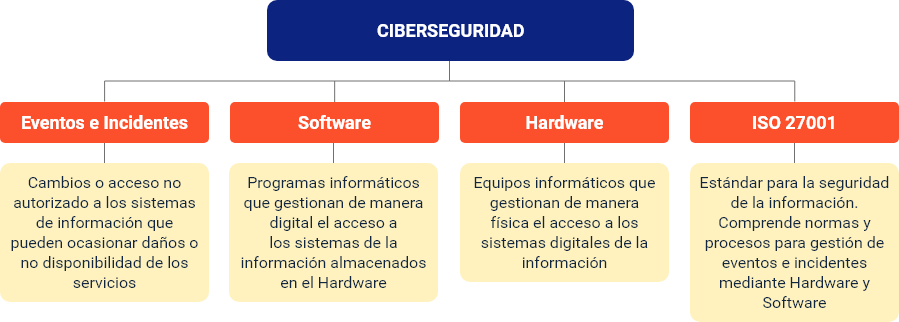
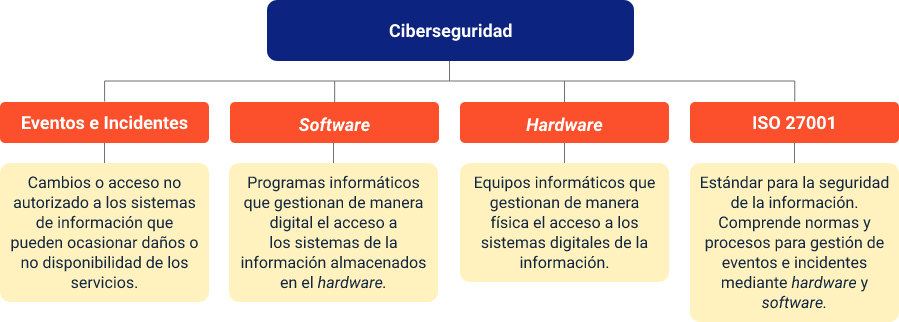
Ajustes

diff --git a/src/views/Tema1.vue b/src/views/Tema1.vue
@@ -163,7 +163,7 @@
         figure
           img(src='@/assets/curso/temas/tema1/img13.svg', alt='Texto que describa la imagen').img10-tema1
       .col-10.col-lg-7.mt-5
-        p Teniendo en cuenta la importancia de una arquitectura de almacenamiento de datos, hay una  normativa legal en la empresas que deben establecer unas políticas de usuario que permitan el desarrollo de un Sistema de Gestión de Seguridad de la Información, que debe iniciar con la documentación de procesos y conociendo cómo opera la organización, también revisar el manual de funciones de cada empleado cómo paso fundamental para aplicar el ciclo Planear-Hacer-Verificar-Actuar PHVA, y en la acción, para planear es necesario conocer los procesos digitales críticos en la organización, que luego detalladamente se deben analizar para implementar controles que puedan proteger los procesos implementados ante amenazas cibernéticas.
+        p Teniendo en cuenta la importancia de una arquitectura de almacenamiento de datos, hay una  normativa legal en la empresas que deben establecer unas políticas de usuario que permitan el desarrollo de un Sistema de Gestión de Seguridad de la Información, que debe iniciar con la documentación de procesos y conociendo cómo opera la organización, también revisar el manual de funciones de cada empleado como paso fundamental para aplicar el ciclo Planear-Hacer-Verificar-Actuar PHVA, y en la acción, para planear es necesario conocer los procesos digitales críticos en la organización, que luego detalladamente se deben analizar para implementar controles que puedan proteger los procesos implementados ante amenazas cibernéticas.
         p El ciclo PHVA, cobra gran importancia en los procesos de ciberseguridad y entender cada una de las fases, por ejemplo en planear es posible detectar las amenazas internas, que parecieran ser externas porque vienen del internet, y que en realidad no son a causa de un ser humano con intenciones maliciosas, sino de los mismos empleados que al no estar capacitados descargan programas que vienen con virus tipo troyanos o sin intención maliciosa que puede mover un directorio o archivo, también se deben revisar las políticas que tengan contempladas el departamento de Tecnologías de la Información (TI) de la organización.
 
     p.mt-5 La importancia de bajar las amenazas es indispensable, así como existen algunas recomendaciones:
@@ -241,7 +241,7 @@
               figure
                 img(src="@/assets/curso/temas/tema1/icono8.svg", alt="").icono
             .col-lg-10
-              p Luego de realizar el inventario de activos, se procede a identificar cada una de las amenazas a los que estos están expuestos. Para esto se pueden aplicar metodológicas establecidas como Magerit, octave, cobit, etc.
+              p Luego de realizar el inventario de activos, se procede a identificar cada una de las amenazas a los que estos están expuestos. Para esto se pueden aplicar metodologías establecidas como Magerit, octave, cobit, etc.
 
           .row.justify-content-center.p-3(numero="3" titulo="Establecer controles de seguridad")
             .col-6.col-lg-2.mb-4
@@ -278,7 +278,7 @@
                   figure
                     img(src='@/assets/curso/temas/tema1/img15.png', alt='Texto que describa la imagen')
                 .col-lg-8
-                  p Encargado de la seguridad del #[i hardware] y #[i software] de toda la red, elementos como #[i routers], #[i switches], #[i firewalls, IDS, IPS, DNS] etc.
+                  p Encargado de la seguridad del #[i hardware] y #[i software] de toda la red, elementos como #[i routers], #[i switches], #[i firewalls, IDS, IPS, DNS], etc.
 
           .row(titulo="Jefe de sistemas -CIO")
             .col-12
@@ -500,7 +500,7 @@
           .tarjeta-flip__contenedor
             .tarjeta-flip__img.img-288(:style="{'background-image': `url(${require('@/assets/curso/temas/tema1/img33.png')})`}")
             .tarjeta-flip__contenido.px-4.p-2.py-xl-4
-              p Los anexos se consideran separadamente de la parte final, porque, aunque en muchas ocasiones no se requiere, en otras, forman parte esencial y complemento de información de algunos informes. Se usan para presentar material que complementa el texto, éstos pueden ser: tablas, imágenes, material especial, bibliografía, descripción de equipos, software, etc.
+              p Los anexos se consideran separadamente de la parte final, porque, aunque en muchas ocasiones no se requiere, en otras, forman parte esencial y complemento de información de algunos informes. Se usan para presentar material que complementa el texto, éstos pueden ser: tablas, imágenes, material especial, bibliografía, descripción de equipos, #[em software], etc.
       .col-sm-6.col-xl-3.mb-4.mb-xl-0
         .tarjeta.tarjeta-flip(@mouseover="indicadorTarjetaFlip = false")
           .indicador--hover(v-if="indicadorTarjetaFlip")

diff --git a/src/config/global.js b/src/config/global.js
@@ -1,6 +1,6 @@
 export default {
   global: {
-    componenteFormativo: 'Ciberseguridad, Generalidades y aplicaciones',
+    componenteFormativo: 'Ciberseguridad: Generalidades y aplicaciones',
     descripcionCurso:
       'Clasificar y almacenar los datos es cada vez más importante, se deben considerar diversas técnicas, análisis y normas que aporten al crecimiento de la organización. La manipulación de volúmenes de datos trae consigo un alto grado de responsabilidad en seguridad, clasificación, conservación y no duplicación de los datos recolectados, exigiendo que se respeten y monitoreen los riesgos que pueden presentarse.',
     imagenBannerPrincipal: require('@/assets/curso/portada/banner-princiapal.svg'),
@@ -124,7 +124,7 @@ export default {
     {
       termino: 'Antivirus',
       significado:
-        'programas que permiten contar con medidas de protección efectivas cuando el equipo se encuentre expuesto a software malicioso o cualquier otro tipo de malware; Estos programas ofrecen la oportunidad de eliminarlo por completo o poner en estado de cuarentena.',
+        'programas que permiten contar con medidas de protección efectivas cuando el equipo se encuentre expuesto a <em>software</em> malicioso o cualquier otro tipo de <em>malware</em>; Estos programas ofrecen la oportunidad de eliminarlo por completo o poner en estado de cuarentena.',
     },
     {
       termino: 'Ciberseguridad',
@@ -134,7 +134,7 @@ export default {
     {
       termino: 'Escáner de vulnerabilidades',
       significado:
-        'software que detecta puntos frágiles en los sistemas informáticos de las empresas, con el objetivo de analizarlos y gestionarlos, dando respuesta oportuna a cualquier evento desafortunado.',
+        '<em>software</em> que detecta puntos frágiles en los sistemas informáticos de las empresas, con el objetivo de analizarlos y gestionarlos, dando respuesta oportuna a cualquier evento desafortunado.',
     },
     {
       termino: 'Evento',
@@ -142,12 +142,12 @@ export default {
         'cambio que no genera resultados negativos, un evento no trae implicaciones negativas, de este modo, puede ser usado como una expresión neutral.',
     },
     {
-      termino: 'Firewall',
+      termino: '<em>Firewall</em>',
       significado:
         'sistema cuya función es prevenir y proteger la red privada de ataques de otras redes. Su funcionamiento es sencillo: escanea los paquetes de red, permitiéndoles o bloqueándolos según las reglas definidas por un administrador.',
     },
     {
-      termino: 'Hardware',
+      termino: '<em>Hardware<em>',
       significado:
         'componentes físicos del computador, es decir, todo lo que se puede ver y tocar.',
     },
@@ -157,7 +157,7 @@ export default {
         'representa resultados negativos. Pueden verse como las interrupciones o desmejoramiento en la calidad de los servicios prestados a los usuarios. Los incidentes deben atenderse mediante la estructura de gestión de incidencias.',
     },
     {
-      termino: 'Proxy',
+      termino: '<em>Proxy</em>',
       significado:
         'programa o dispositivo físico, que actúa de intermediario entre conexiones del navegador e internet, filtrando todos los paquetes entre ambos. Así mismo, establece un sistema de autentificación, que limita el acceso a la red externa, por lo cual, se puede generar los registros sobre sitios, visitas, y demás datos de navegación.',
     },
@@ -172,7 +172,7 @@ export default {
         'se encarga de proteger los datos contra robo de información, acceso no autorizado, obstaculización al sistema informático, manipulación y/o eliminación de datos.',
     },
     {
-      termino: 'Software',
+      termino: '<em>Software</em>',
       significado:
         'todos los programas que contribuyen al funcionamiento de un conjunto de procesamiento de datos. (Sistemas operativos, aplicaciones, etc.)',
     },

diff --git a/src/views/Tema2.vue b/src/views/Tema2.vue
@@ -255,13 +255,13 @@ export default {
       },
       {
         texto:
-          '<b><i>Firewall</i> perimetral de red</b><br><br>Como su nombre lo indica, hace la función de una pared de bloqueo. Es un sistema cuya función es prevenir y proteger la privada de ataques de otras redes. Su funcionamiento es sencillo: escanea los paquetes de red, permitiéndoles o bloqueándolos según las reglas definidas por un administrador.',
+          '<b><i>Firewall</i> perimetral de red</b><br><br>Como su nombre lo indica, hace la función de una pared de bloqueo. Es un sistema cuya función es prevenir y proteger la red privada de ataques de otras redes. Su funcionamiento es sencillo: escanea los paquetes de red, permitiéndoles o bloqueándolos según las reglas definidas por un administrador.',
         imagen: require('@/assets/curso/temas/tema2/img14.svg'),
         // leyendaImagen: 'Leyenda de la imagen',
       },
       {
         texto:
-          '<b>Servidor <i>proxy</i></b><br><br>Un <i>proxy</i> es un es un servidor, puede ser un programa o dispositivo físico, que actúa de intermediario entre conexiones del navegador e internet, filtrando todos los paquetes entre ambos. Así mismo, establece un sistema de autentificación, que limita el acceso a la red externa, por lo cual, se puede generar los registros sobre sitios, visitas, y demás datos de navegación.',
+          '<b>Servidor <i>proxy</i></b><br><br>Un <i>proxy</i> es un servidor, puede ser un programa o dispositivo físico, que actúa de intermediario entre conexiones del navegador e internet, filtrando todos los paquetes entre ambos. Así mismo, establece un sistema de autentificación, que limita el acceso a la red externa, por lo cual, se puede generar los registros sobre sitios, visitas, y demás datos de navegación.',
         imagen: require('@/assets/curso/temas/tema2/img15.svg'),
         // leyendaImagen: 'Leyenda de la imagen',
       },

diff --git a/src/views/Introduccion.vue b/src/views/Introduccion.vue
@@ -14,7 +14,7 @@
         figure
           img(src='@/assets/curso/temas/introduccion/img1.svg', alt='Texto que describa la imagen')
       .col-lg-7.col-xs-12
-        p Apreciado aprendiz, bienvenido a este componente formativo, donde se reconocen las generalidades de la ciberseguridad, la normativa, las funciones, procesos de gestión y reportes, para que se puedan aplicar en las empresas mediante herramientas de hardware y software; de este modo es necesario estudiar los fundamentos esenciales asociados a eventos e incidentes.
+        p Apreciado aprendiz, bienvenido a este componente formativo, donde se reconocen las generalidades de la ciberseguridad, la normativa, las funciones, procesos de gestión y reportes, para que se puedan aplicar en las empresas mediante herramientas de #[em hardware] y #[em software]; de este modo es necesario estudiar los fundamentos esenciales asociados a eventos e incidentes.
         p En el siguiente video conocerá, de forma general, la temática que se estudiará a lo largo del componente formativo.
     
     figure.mt-5
